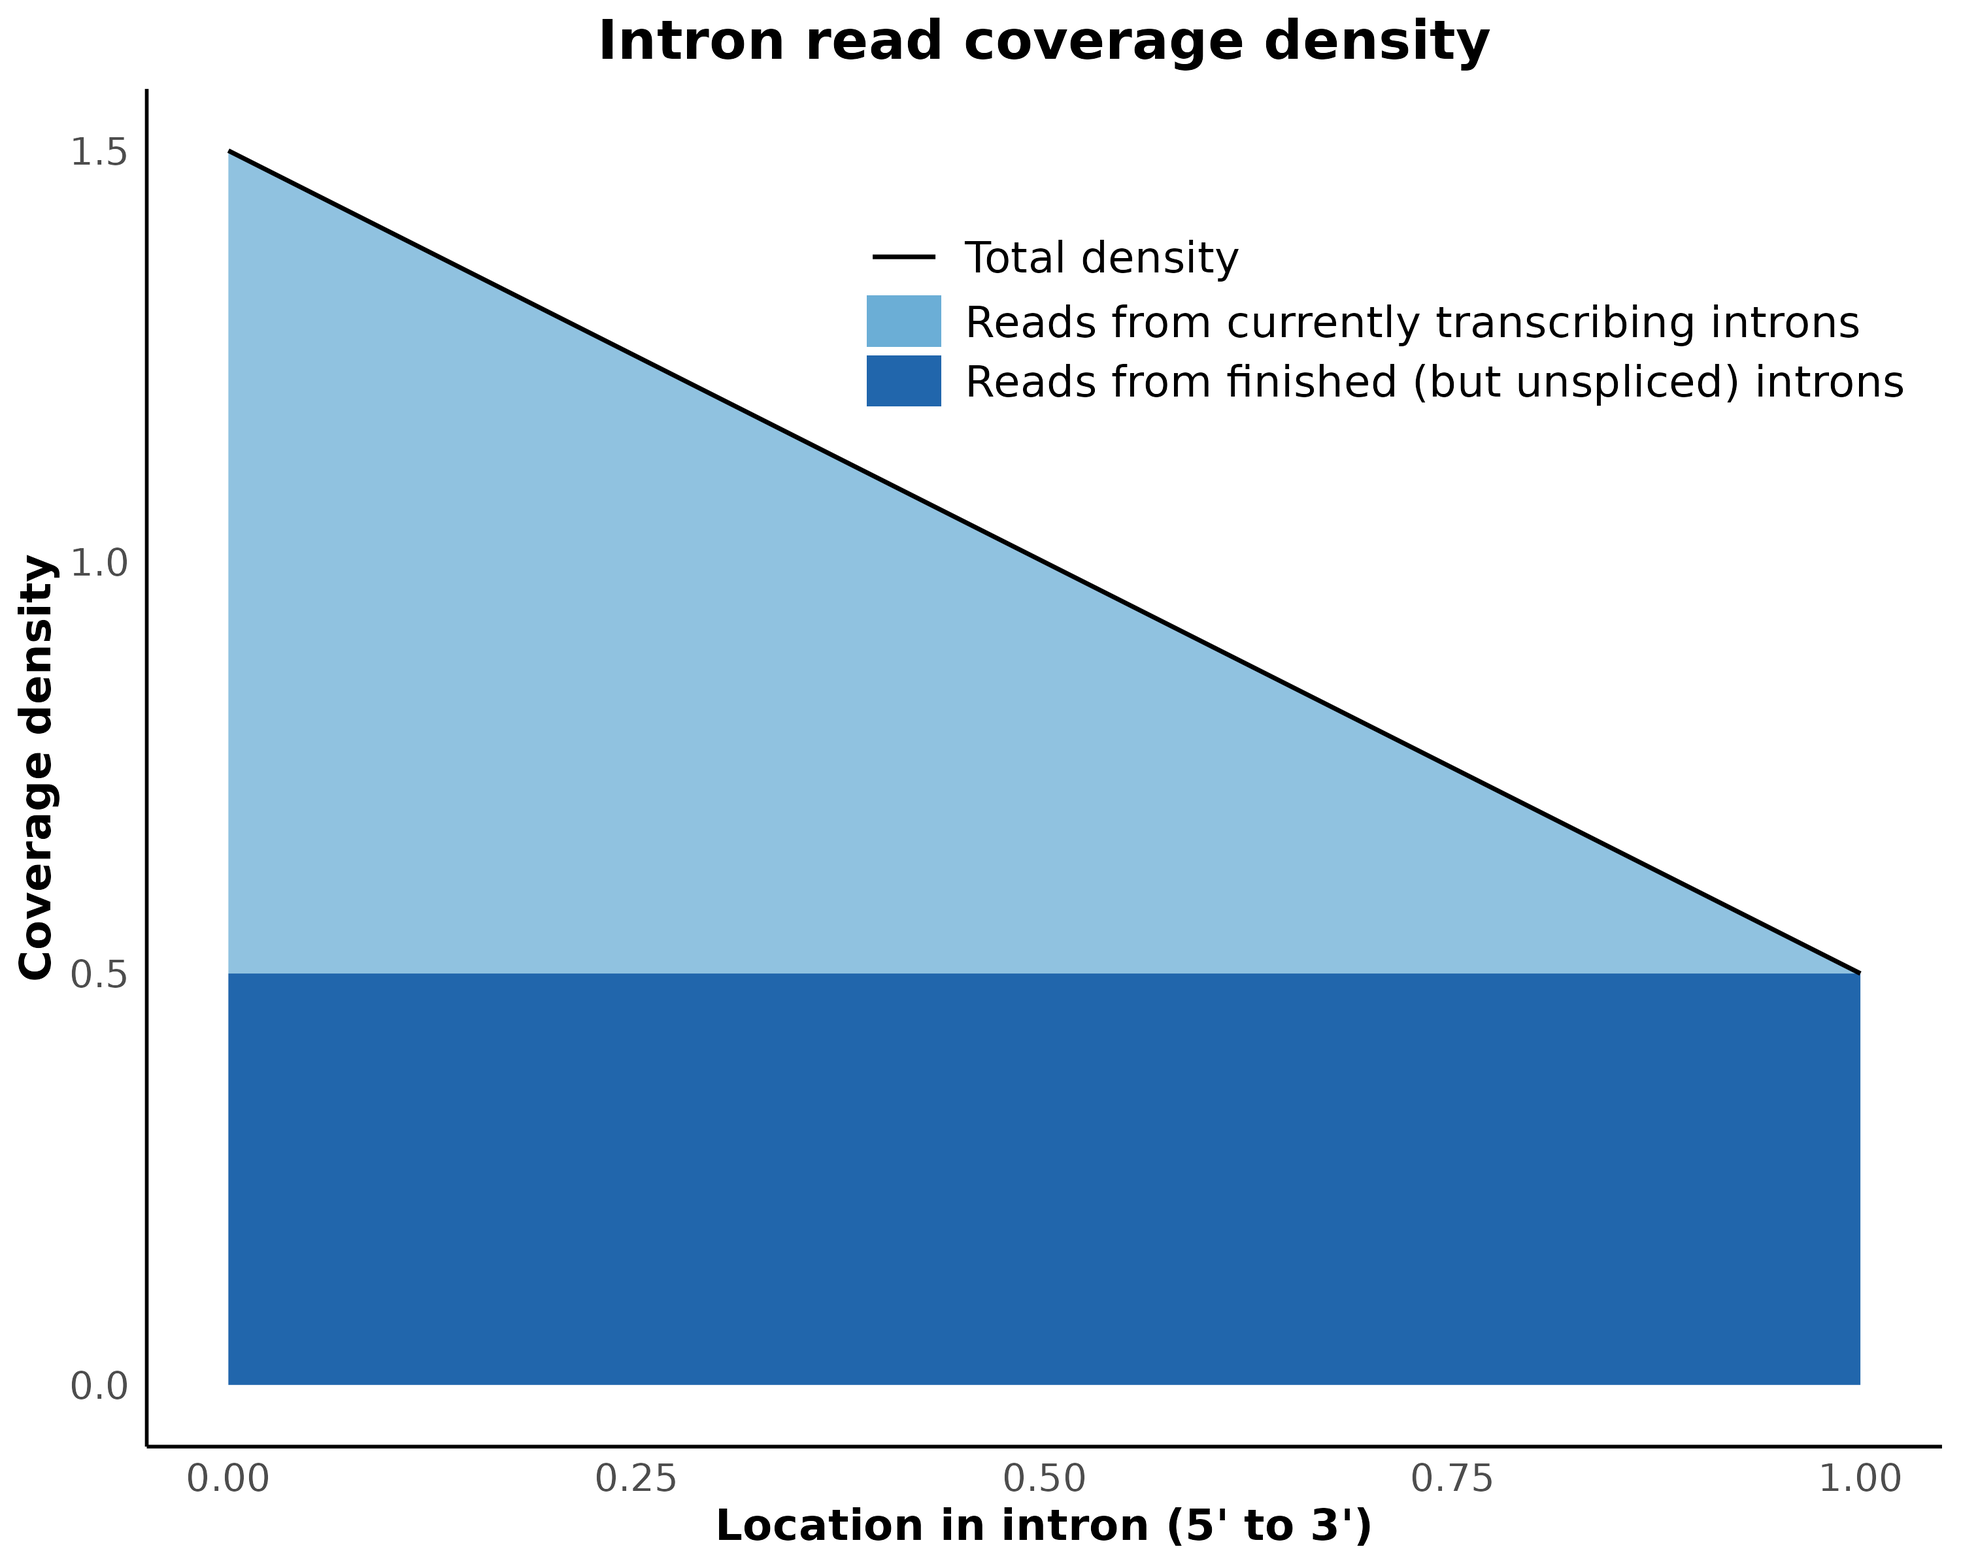
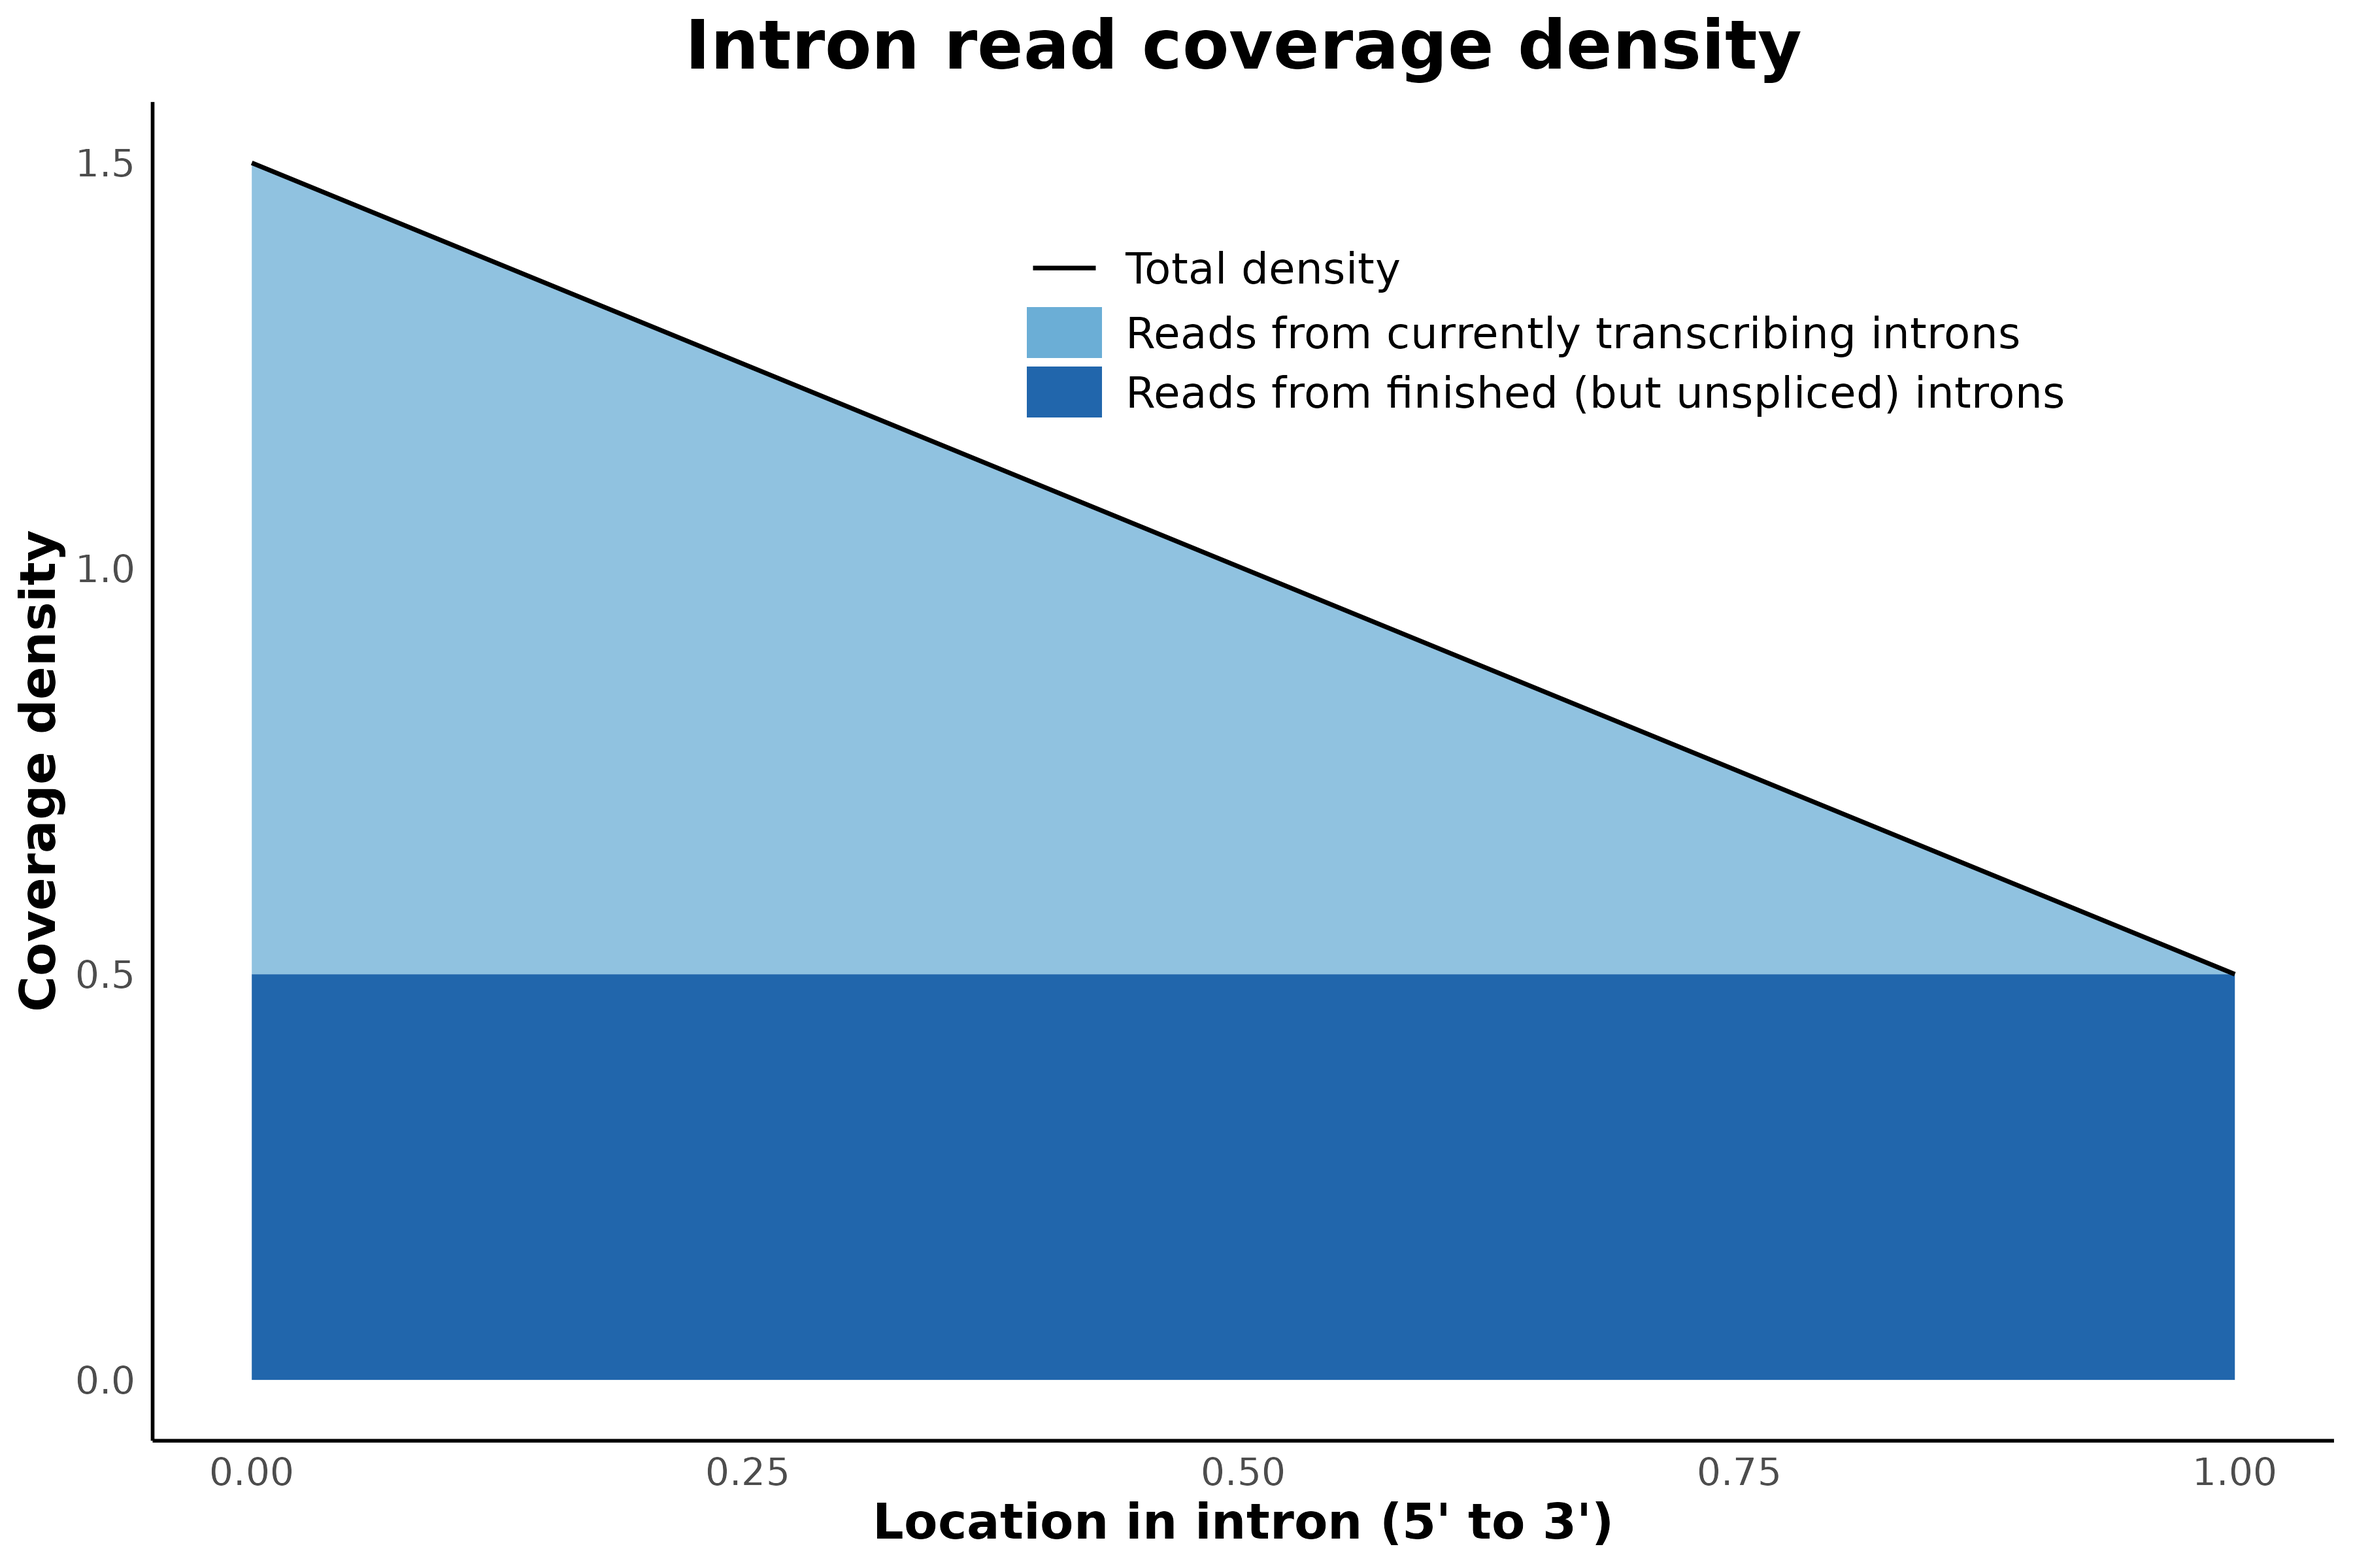
Poster update.

diff --git a/07_ardd/poster.tex b/07_ardd/poster.tex
@@ -1,5 +1,5 @@
 
-\documentclass[25pt, a0paper, portrait, margin=0mm, innermargin=15mm,
+\documentclass[20pt, a0paper, portrait, margin=0mm, innermargin=15mm,
 blockverticalspace=15mm, colspace=15mm, subcolspace=8mm]{tikzposter} 
 \usepackage{xcolor}
 \usepackage{graphicx}
@@ -7,6 +7,8 @@ blockverticalspace=15mm, colspace=15mm, subcolspace=8mm]{tikzposter}
 \usepackage{tikz}
 \usepackage[font=small,labelfont=bf]{caption}
 \usepackage{lipsum}
+\usepackage{amsmath}
+
 
 \tikzposterlatexaffectionproofoff
 
@@ -49,7 +51,7 @@ blockverticalspace=15mm, colspace=15mm, subcolspace=8mm]{tikzposter}
 
 \title{\parbox{\linewidth}{\centering
 		\fontsize{72}{70}\selectfont
-		Measuring changes in the speed of transcription elongation and intron splicing
+		Measuring changes in the speeds of transcription elongation and intron splicing
 }}
 
 \author{\parbox{\linewidth}{\centering
@@ -128,12 +130,12 @@ blockverticalspace=15mm, colspace=15mm, subcolspace=8mm]{tikzposter}
 		
 		\block{Introduction}{
 			\begin{itemize}
-				\item The speed of RNA polymerase II (Pol II) elongation, measured in the number of nucleotides synthesized per unit of time, plays an important role in RNA metabolism. Changes in Pol II speed can affect several co-transcriptional processes
+				\item The speed of RNA polymerase II (Pol II) elongation, measured as the number of nucleotides synthesized per unit of time, plays an important role in RNA metabolism. Changes in Pol II speed can affect several co-transcriptional processes
 				\parencite{munizRNAPolymeraseII2021}.
 				
-					\item A recent study of  \textcite{debesAgeingassociatedChangesTranscriptional2023} showed that organism aging is associated with an increase in Pol II speed, whereas lifespan-prolonging interventions tend to decrease it. 
+					\item A recent study by  \textcite{debesAgeingassociatedChangesTranscriptional2023} showed that organism aging is associated with an increase in Pol II speed, whereas lifespan-prolonging interventions tend to decrease it. 
 					
-					\item We present a novel computational method that jointly estimates changes in the Pol II speed and the speed of intron splicing, using total RNA-seq.
+					\item We present a novel computational method that jointly estimates changes in Pol II elongation speed and intron splicing speed using total RNA-seq data.
 		
 		
 			
@@ -142,14 +144,13 @@ blockverticalspace=15mm, colspace=15mm, subcolspace=8mm]{tikzposter}
 		
 		\block{Method}{
 		\begin{itemize}
-				\item   Our method works with total RNA-seq, which consists of both the nascent RNA and mature mRNA. Changes in gene expression affect both the nascent and mature components, while changes in Pol II speed and splicing time affect the nascent RNA only.
-				\item As introns are predominantly present in the nascent RNA (with the exception of intron retention), changes in the intron coverage can be linked to the changes in Pol II speed and splicing time.		
+				\item  Our method works with total RNA-seq, which is a mixture of nascent and mature RNA. Changes in gene expression affect both the nascent and mature components, while changes in Pol II speed and splicing time affect the nascent RNA only.					
 				
 		\end{itemize}
 		
 		\begin{center}
-			\includegraphics[width=0.5\linewidth]{figures/total_rna_with_bg.png}\\[1ex]
-			\small\textbf{Figure 1.} Total RNA-seq
+			\includegraphics[width=0.47\linewidth]{figures/total_rna_with_bg.png}\\[1ex]
+			\small\textbf{Figure 1.} Total RNA-seq.
 		\end{center}
 		
 		
@@ -157,44 +158,102 @@ blockverticalspace=15mm, colspace=15mm, subcolspace=8mm]{tikzposter}
 		
 		
 		\begin{itemize}
-			\item \lipsum[1][10-12]
+			\item As introns are predominantly present in the nascent RNA (with the exception of intron retention), changes in the intron coverage can be linked to the changes in Pol II speed and splicing time.	
 			
 		\end{itemize}
 		
 		\begin{center}
-			\includegraphics[width=0.7\linewidth]{figures/pol_ii_speed_figure.png}\\[1ex]
-			\small\textbf{Figure 1.} Total RNA-seq
+			\includegraphics[width=0.81\linewidth]{figures/pol_ii_speed_figure.png}\\[1ex]
+			\small \textbf{Figure 2.}  Effect of the change in Pol II speed. In the condition with a faster polymerase (left), there are fewer polymerases currently transcribing a gene, compared to the condition with a slower polymerase (right). Note that the amount of mature RNA is not affected by the change in elongation speed.
 		\end{center}
 		
 		\begin{itemize}
-			\item \lipsum[1][13-15]
+			\item Intronic reads come from introns that are either still being transcribed or from introns that are fully finished (but not spliced and degraded yet). These two types of introns have different coverage patterns, as transcribing introns will produce reads only in the region that was already transcribed.
 			
 		\end{itemize}
+
+\vspace{1mm}
+\begin{center}
+	\begin{minipage}{0.48\linewidth}
+		\centering
+		\includegraphics[width=\linewidth]{figures/density_plot.png}\\[1ex]
+		\small\textbf{Figure 3.} Coverage of intron.
+	\end{minipage}%
+	\hfill
+	\begin{minipage}{0.48\linewidth}
+		\centering
+		\includegraphics[width=\linewidth]{figures/model_schema.png}\\[1ex]
+		\small\textbf{Figure 4.} Schema of the model.
+	\end{minipage}
+\end{center}
+
+\begin{itemize}
+	\item We used the principles above to derive our model (see our bioRxiv preprint for details). The model consists of:
+	\begin{itemize}
+		\item Vector of explanatory variables $\mathbf{x}$ and logarithm of library size $\ell$, describing each sample.
+		\item Parameter vectors $\boldsymbol{\alpha}$, $\boldsymbol{\beta}$, and $\boldsymbol{\gamma}$, describing log fold-changes (LFC) effects of $\mathbf{x}$ on gene expression, Pol II speed, and intron splicing time, respectively.
+		\item Intercept parameters $c_{\text{exon}}$, $c_{\text{intron}}$ and $\theta$.
+	\end{itemize}
+	\item The model predicts, for every gene, the expected exon read count $\mu$, and for every intron, the intron read count $\nu$ and the fraction of intronic reads originating from currently transcribing introns $\pi$: 
+	$$
+	\mu =  \exp \left( c_{\text{exon}} + \ell +\mathbf{x}^\mathsf{T} \boldsymbol{\alpha} \right)
+	$$ 
+	$$
+	\nu = \exp \left(c_{\text{intron}}+ \ell + \theta + \mathbf{x}^\mathsf{T} \left( \boldsymbol{\alpha} - \boldsymbol{\beta} \right) \right) + \exp \left( c_{\text{intron}} + \ell + \mathbf{x}^\mathsf{T} \left( \boldsymbol{\alpha} + \boldsymbol{\gamma} \right) \right)
+	$$		
+	$$
+	\pi = \sigma \left( \theta -\mathbf{x}^\mathsf{T} \left( \boldsymbol{\beta} + \boldsymbol{\gamma} \right) \right)
+	$$
+	\item The model is fitted by maximum likelihood estimation using exon and intron read counts together with intron coverage (read positions within introns). Parameter significance is assessed with a likelihood ratio test.
+	
+\end{itemize}
+
+
+	
 		
-		\begin{center}
-			\includegraphics[width=0.7\linewidth]{figures/density_plot.png}\\[1ex]
-			\small\textbf{Figure 1.} Total RNA-seq
-		\end{center}
 		
 		
-		
-		}
+}
 		\column{0.5}
 			\block{Results}{\begin{itemize}
-					\item \textbf{Lorem Ipsum...}: 
-				
+				\item We used a publicly available mouse dataset from \textcite{demajoGenomicInstabilityNaturally2021a} to compare myocardium samples of young (12 weeks) wild-type mice with four groups: old (104 weeks) wild-type mice, mice with myocardium-specific knockout of the \textit{Ercc1} gene, a mouse model of Hutchinson–Gilford Progeria Syndrome (HGPS), and \textit{Tert}-deficient mice with reduced telomere length.
 				
 					
 			\end{itemize}
-		}
-		\block{Discussion}{
-		\begin{itemize}
-			\item Lorem Ipsum...
-		\end{itemize}
-	}
 		
-		\colorlet{blocktitlebgcolor}{weakBlue}
-		\colorlet{blocktitlefgcolor}{black}
+			
+			\begin{center}
+				\includegraphics[width=0.89\linewidth]{figures/volcano_all_sharedlegend.png}\\[1ex]
+				\small\textbf{Figure 5.} Volcano plots of L2FC for Pol II speed (left) and intron splicing speed (right), estimated per gene. 
+				L2FC values were clamped to the range $[-5, 5]$, and false discovery rates (FDR) were capped at $10^{-15}$.
+			\end{center}
+			
+		
+		}
+
+\block{Conclusion}{
+	\begin{minipage}{0.75\linewidth}
+		\begin{itemize}
+			\item We present a bioinformatics method that jointly estimates transcription elongation and splicing speed changes from total RNA-seq data.
+			\item An implementation of our method is available at \\
+		\mbox{https://github.com/jkoubele/pol-ii-speed}.
+			
+			\item See also our bioRxiv preprint 
+			"Estimating changes in RNA Polymerase II elongation and intron splicing speeds from total RNA-seq data"
+			(also in the repository above).
+		\end{itemize}
+	\end{minipage}%
+	\hfill
+	\begin{minipage}{0.2\linewidth}
+		\centering
+		\includegraphics[width=\linewidth]{figures/qr_code.png}\\[1ex]
+		\footnotesize Link to GitHub repository. 
+	\end{minipage}
+}
+		
+		
+		\colorlet{blocktitlebgcolor}{blue2}
+		\colorlet{blocktitlefgcolor}{white}
 		\block{References and Acknowledgment}{
 			
 		\printbibliography[heading=none]
@@ -221,12 +280,12 @@ blockverticalspace=15mm, colspace=15mm, subcolspace=8mm]{tikzposter}
 	\colorlet{blockbodyfgcolor}{blue2}
 	\block{}{% empty title -> just a body area spanning full width
 		\centering
-		\rule{0.94\textwidth}{0.4pt}
-		\vspace{5mm}
+	%	\rule{0.94\textwidth}{0.4pt}
+	%	\vspace{3mm}
 		
-		\includegraphics[height=30mm]{figures/cecad_logo.png}\hspace{150mm}%
-		\includegraphics[height=30mm]{figures/crc_1678_transparent.png}\hspace{150mm}%
-		\includegraphics[height=30mm]{figures/uni_logo_2.png}%
+		\includegraphics[height=35mm]{figures/cecad_ar_logo.png}\hspace{150mm}%
+		\includegraphics[height=35mm]{figures/crc_1678_transparent.png}\hspace{150mm}%
+		\includegraphics[height=35mm]{figures/uni_logo_2.png}%
 		
 		\vspace{5mm}		
 		\vspace{2mm}
